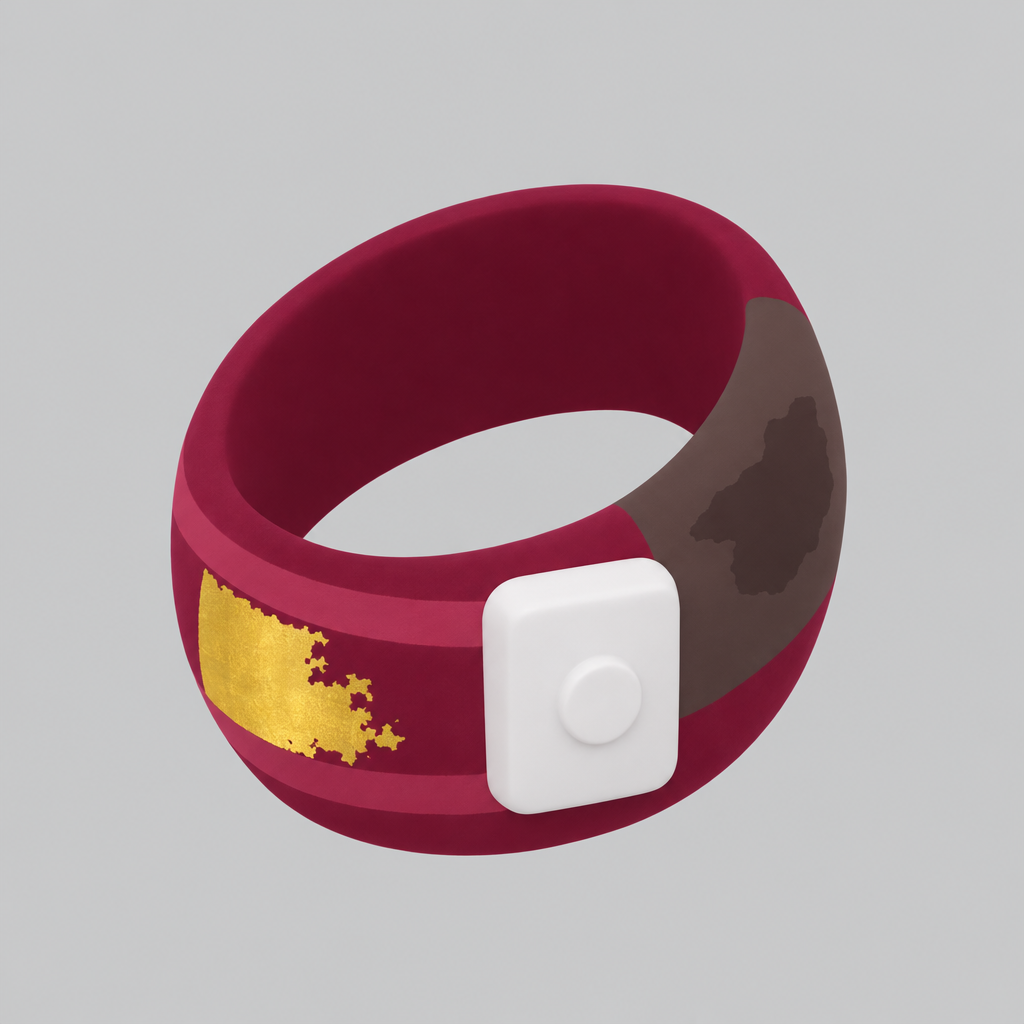
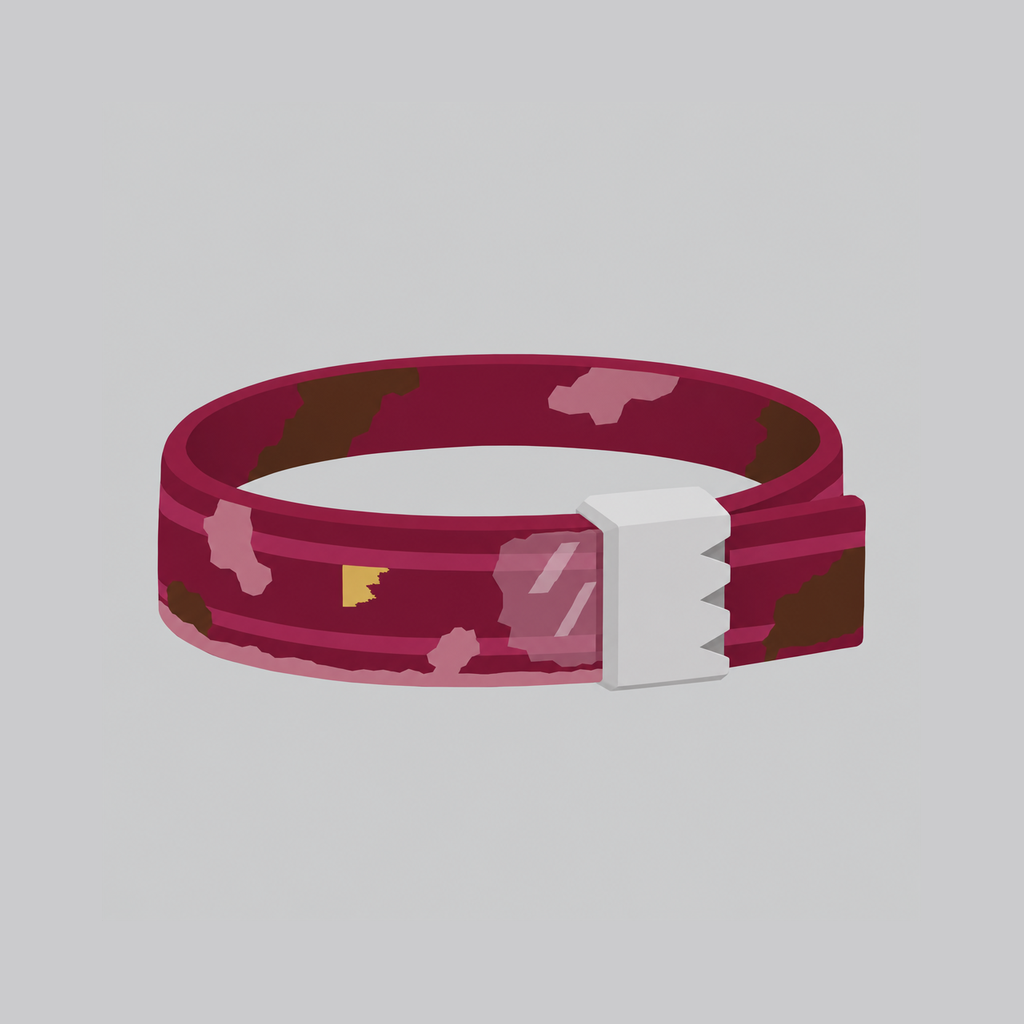
art(debaucheryville): VIP wristband reference round 3, flattened strap with barbed clasp (asset team)
Claude-Session: https://claude.ai/code/session_01Rk2Ri3vAu7TBhRadSU9CbJ

Changed region(s): [[0.1562, 0.1562, 0.8438, 0.8438]]

diff --git a/dev/asset_team/icon_refs/velvet_wristband_vip_prompt.md b/dev/asset_team/icon_refs/velvet_wristband_vip_prompt.md
@@ -1,13 +1,8 @@
 # velvet_wristband_vip (Velvet Wristband, VIP Access): 3D icon reference prompt
 
-Firefly home to Generations, GPT Image 2.6 Sunburst, 1:1, Quality High. Rounds: 1. Margins (Pillow, percent): L11.6 R12.5 T30.4 B27.1.
-Canon: `Assets/Graphics/items/velvet-wristband-vip.md` lines 20-40 (deep crushed-velvet burgundy #7E1E3E, two hard sheen bands, half-rubbed gold foil VIP mark that is a "small blocky illegible shape", one-way barbed plastic snap clasp, tail trimmed unevenly, grubby darkened section, small dark stain, frayed edge showing woven backing, permanently creased flat loop); `design/items/docs/equipment.md` line 232 (name, effects). This is the pixel-art redo, now 3D.
-Lettering: none. The doc calls the foil mark illegible and blocky, so it is a flat gold patch with no letters.
-Shows: a thick burgundy velvet oval loop with two lighter sheen stripes, a half-rubbed gold foil patch, a chunky white plastic snap with a short uneven tail, one dark grubby section with a stain and frayed pale backing edge.
+Firefly home to Generations, GPT Image 2.6 Sunburst, 1:1, Quality High. Rounds: 3 (R1 thin frayed cloth loop, R2 fat round bangle with a white box clasp; both A3 fails). R3 kept; the generation was rescaled to 80 percent on matching grey to give margins (Pillow, percent below).
+Canon: `Assets/Graphics/items/velvet-wristband-vip.md` lines 20-40 (deep crushed-velvet burgundy #7E1E3E, two hard sheen bands, half-rubbed gold foil VIP mark as a small blocky shape, one-way barbed plastic snap, hand-trimmed uneven tail, grubby darkened section with a stain, frayed edge, sticky residue sheen near the clasp, permanently flattened loop); `design/items/docs/equipment.md` line 232.
+Lettering: none (the doc calls the foil mark illegible).
+Shows: a flattened thick-strap burgundy velvet club wristband loop with two sheen bands, one short blunt full-width tail past a chunky grey-white barbed clasp block with sawtooth notches, a flat glossy residue patch, pink bald worn patches, a paler frayed band along the lower edge, brown stains, and one small blocky gold foil mark.
 
-Generate an image: A single cheap club-souvenir item, drawn in the middle of a flat light-grey square (about 55 percent of the frame width, large margins). A thick chunky event wristband standing as a closed oval loop, like a fat bangle band about 3 cm wide, made of matte crushed velvet in one even deep burgundy colour (hex 7E1E3E) with two broad flat lighter burgundy sheen stripes running along its length. On the outside is one large flat gold foil patch, a blocky shape rubbed half away, with no letters. A chunky opaque white plastic one-way snap clasp is fused into the band, and the trimmed tail end sticks out short, chunky and uneven. One section of the band is grubby and darkened as a broad flat dark brown-grey colour block, with one big flat dark stain and a thick frayed worn edge showing a flat pale woven backing. The loop is permanently creased flat and a little sagging. Stylized 3D toy render, matte opaque surfaces, bold chunky shapes in clear flat colour blocks. No thin straps, no thin cords, no glow, no gloss, no transparency, no fine noise, no speckle, no text, no letters, no hands, no wrist, no arm, no people, no shadows. Light grey background. Square image.
-
-## Round 2 (A3 fail on round 1: frayed threads, thin tail, thin hollow loop). KEPT.
-Rounds: 2. Margins (percent): L16.6 R17.3 T18.0 B16.4. Shows: a thick solid closed burgundy bangle-style band with smooth walls, two sheen stripes, a half-rubbed gold foil patch, a flat chunky white snap block fused on, and a flat dark grubby stain block. No fray, no tail, no lettering.
-
-Generate an image: A single chunky souvenir bangle, drawn in the middle of a flat light-grey square (about 55 percent of the frame width, large margins). A thick solid closed band like a fat rounded bangle bracelet, one solid piece about 3 cm wide with a thick rounded edge and smooth plain inner and outer walls, standing upright as a ring seen at a three-quarter angle. It is matte velvet in one even deep burgundy colour (hex 7E1E3E) with two broad flat lighter burgundy sheen stripes running around it. On the outer wall is one large flat gold foil patch, a blocky shape half rubbed away, with no letters. A chunky flat opaque white plastic snap block is fused flat onto the outside of the band. One broad section of the band is darkened as a flat dark brown-grey colour block with one big flat dark stain. No fraying, no threads, no loose tail, no creases, no crumpling. Stylized 3D toy render, matte opaque surfaces, bold chunky simple shapes in clear flat colour blocks. No thin parts, no straps, no cords, no glow, no gloss, no transparency, no fine noise, no speckle, no text, no letters, no hands, no wrist, no arm, no people, no shadows. Light grey background. Square image.
+Generate an image: A single cheap club-entry wristband souvenir, drawn in the middle of a flat light-grey square (about 60 percent of the frame width, large margins). A FLATTENED event wristband loop lying on its side at a three-quarter view: a flat strap band, much wider than it is thick, about 3 cm wide, but thick and solid like a thick leather strap, closed into an oval loop that is pressed flat. Matte crushed velvet in one deep burgundy colour (hex 7E1E3E) with two hard flat lighter burgundy sheen highlight bands running along its length. One chunky solid grey-white plastic one-way snap clasp block sits on the band with a few bold sawtooth barb notches cut into it, plus one flat shiny sticky-residue patch beside it. One short chunky blunt-cut tail, the full band width and thickness, sticks out a little past the clasp. Seedy wear shown only as flat colour areas: a few flat lighter bald worn-through patches of the velvet, one flat paler band along one edge where it is frayed (no threads), broad hard-edged dark brown stains. One SMALL blocky half-rubbed gold foil mark with hard straight edges, no letters. Stylized 3D toy render, matte opaque surfaces, bold chunky shapes in clear flat colour blocks. No thin parts, no threads, no loose strings, no fractal speckle, no fine noise, no glow, no transparency, no text, no letters, no hands, no wrist, no arm, no people, no shadows. Light grey background. Square image.
